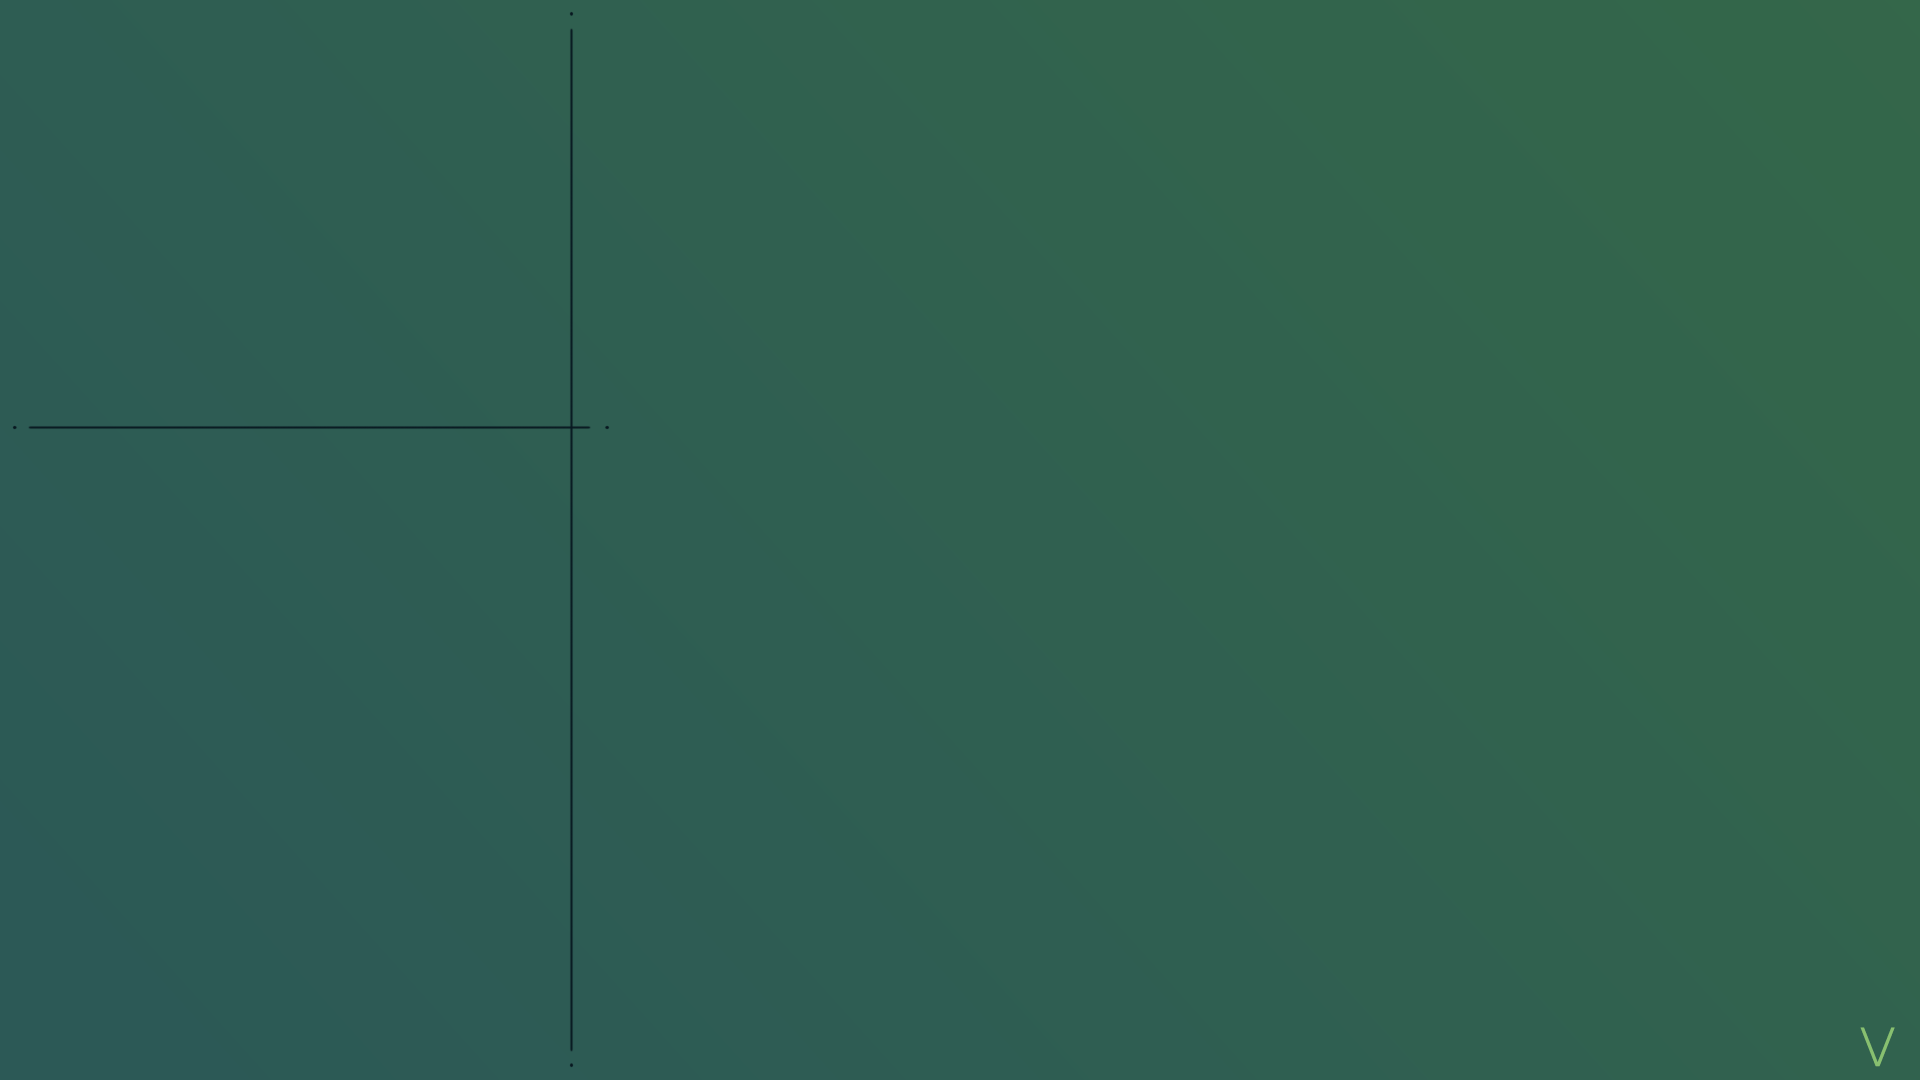
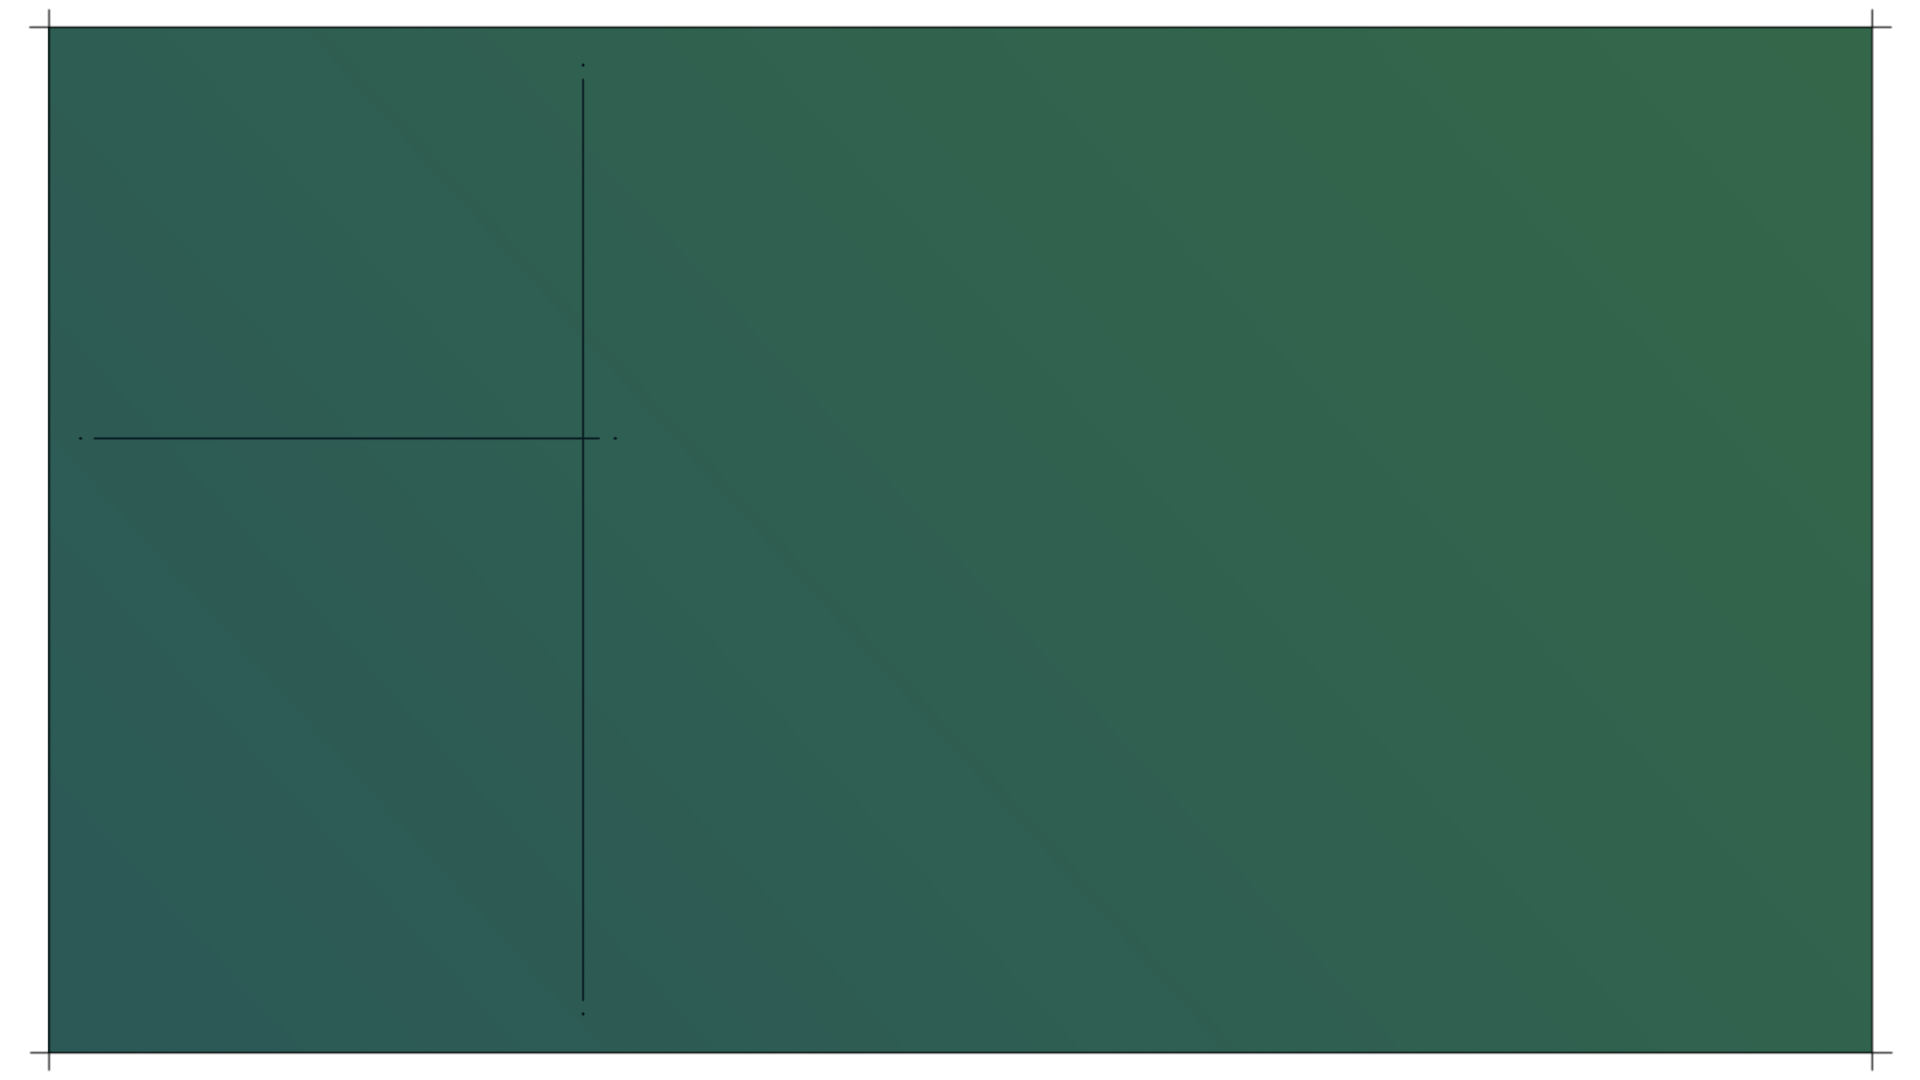
Reimplement background + Change font size from px to vw

Changed region(s): [[0.0, 0.0, 1.0, 1.0], [0.2812, 0.3667, 0.3125, 0.4278]]

diff --git a/css/style.css b/css/style.css
@@ -7,30 +7,37 @@
 body {
   font-family:'Microsoft Yi Baiti', Tahoma, Geneva, Verdana, sans-serif;
   color: #88c070;
-  background-image: url("../img/background.png");
+  width: 85%;
+  margin: auto;
+}
+
+img {
+  position: fixed;
+  z-index: -1;
+  width: 85%;
 }
 
 /* Basic text */
 h1 {
-  font-size: 72px;
+  font-size: 4vw;
 }
 
 h2 {
-  font-size: 48px;
+  font-size: 2.6vw;
 }
 
 p {
-  font-size: 40px;
+  font-size: 2.1vw;
 }
 
 li {
-  font-size: 40px;
+  font-size: 2.1vw;
 }
 
 /* Anchor */
 a {
   color: #88c070;
-  font-size: 40px;
+  font-size: 2.1vw;
   text-decoration: none;
 }
 

diff --git a/index.html b/index.html
@@ -7,6 +7,7 @@
   <title>Document</title>
 </head>
 <body>
+  <img src="./img/background.png" alt="background-image" draggable="false">
   <header>
     <h1>Denis Laciak</h1>
     <h2>Front-End Developer</h2>
